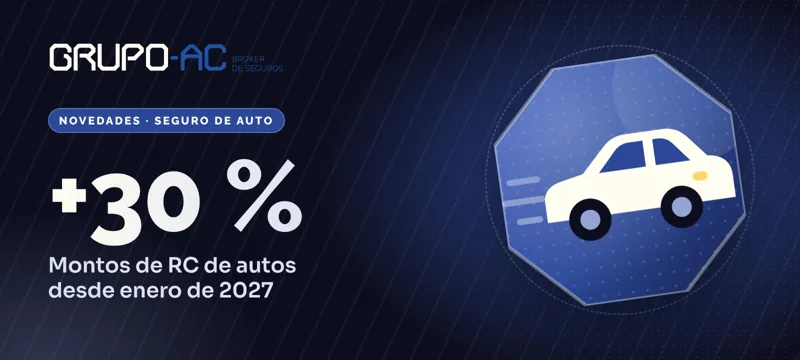
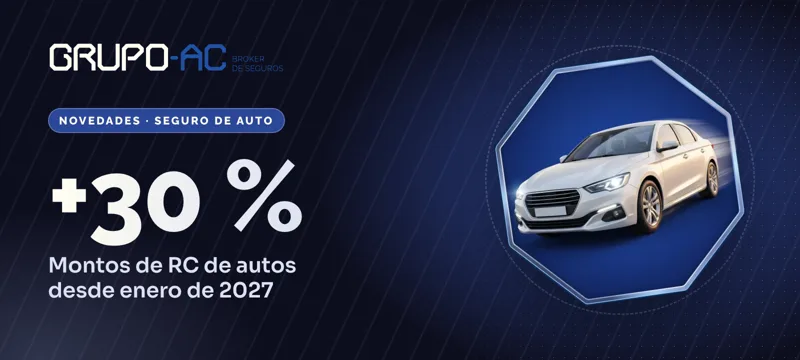
Novedades: viñeta realista de auto, sin viñetas ilustradas, y 'Ver más' en el índice
Claude-Session: https://claude.ai/code/session_019S81tN96UnnbQ2fAMaFsQV

Changed region(s): [[0.5938, 0.1528, 0.9375, 0.8556]]

diff --git a/novedades/index.html b/novedades/index.html
@@ -65,9 +65,12 @@ gtag('config', 'G-Q8FT83J79P');
   <img class="vin" src="/img/novedades/riesgo-auto.svg" alt="" width="88" height="88">
   <span class="arriba"><span class="r">Seguro de auto</span><time datetime="2026-11-13">13 nov. 2026</time></span>
   <h2>Seguro de auto: suben un 30 % los montos de responsabilidad civil desde 2027</h2><p>Resolución SSN 480/2026: nuevos límites para autos, motos, camiones y colectivos.</p><span class="mas">Leer la nota →</span></span></a>
-<script>(function(){var b=document.querySelectorAll('.n-filtros button'),c=document.querySelectorAll('.n-card');
-b.forEach(function(x){x.addEventListener('click',function(){b.forEach(function(y){y.classList.toggle('on',y===x);});var f=x.dataset.f;
-c.forEach(function(k){k.hidden=!(f==='todos'||k.dataset.riesgo===f);});});});})();</script>
+
+<script>(function(){var N=9,f='todos',lim=N,b=document.querySelectorAll('.n-filtros button'),c=[].slice.call(document.querySelectorAll('.n-card')),mas=document.querySelector('.n-mas');
+function pintar(){var v=c.filter(function(k){return f==='todos'||k.dataset.riesgo===f;});c.forEach(function(k){k.hidden=true;});
+v.forEach(function(k,i){k.hidden=i>=lim;});if(mas)mas.hidden=v.length<=lim;}
+b.forEach(function(x){x.addEventListener('click',function(){b.forEach(function(y){y.classList.toggle('on',y===x);});f=x.dataset.f;lim=N;pintar();});});
+if(mas)mas.addEventListener('click',function(){lim+=N;pintar();});pintar();})();</script>
 </main>
 
 <dialog class="nos-pop" id="quienes-somos" aria-labelledby="nos-pop-tit">

diff --git a/css/novedades.css b/css/novedades.css
@@ -82,3 +82,6 @@
 .n-cta .t{font-family:var(--f-titulo);font-weight:800;font-size:clamp(22px,3vw,28px);margin:0}
 .n-cta p{margin:0 0 6px;color:#DCE1F2}
 .n-fuente{font-size:13px;color:var(--texto-suave);border-top:1px solid var(--linea);padding-top:16px;margin-top:36px}
+.n-mas{grid-column:1/-1;justify-self:center;font:700 15px var(--f-titulo);color:var(--azul);background:#fff;border:2px solid var(--azul);border-radius:999px;padding:12px 26px;cursor:pointer}
+.n-mas:hover{background:var(--azul);color:var(--hueso)}
+.n-mas[hidden]{display:none}
